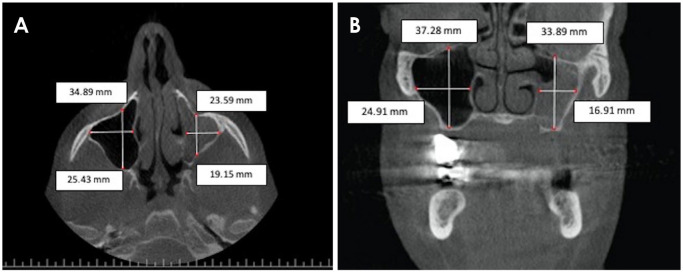
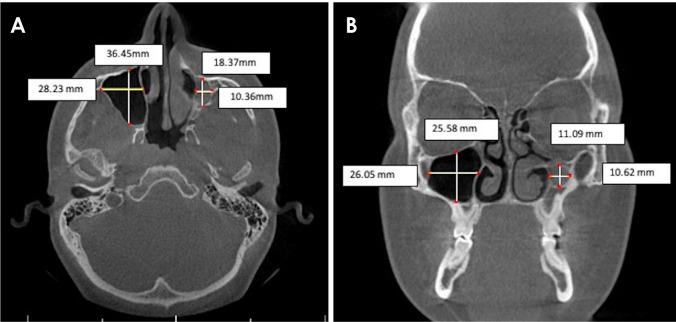
Correct ODB-1161 image

diff --git a/docs/assets/flagship.js b/docs/assets/flagship.js
@@ -72,7 +72,7 @@ function renderSampleItem(t) {
       credit: 'Manila et al. (2020)',
       license: ['CC BY-NC 3.0', 'by-nc/3.0'],
       figures: [
-        [683, 273, 'F3', t('双侧上颌窦的轴位及冠状位 CBCT 图像', 'Axial and coronal CBCT views of the maxillary sinuses')]
+        [676, 322, 'F2', t('双侧上颌窦的轴位及冠状位 CBCT 图像', 'Axial and coronal CBCT views of the maxillary sinuses')]
       ]
     }
   ];
